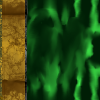
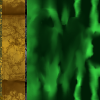
maj fonction changement environnement

Changed region(s): [[0.27, 0.0, 0.42, 1.0]]

diff --git a/public/temple_run.js b/public/temple_run.js
@@ -4,13 +4,19 @@ h=Math.floor(h/10);
 w=Math.floor(w/7);
 const SIZE = Math.min(h,w);
 const bt = document.getElementsByTagName("button")[0];
+const imagesEmpty1 = [createImg("images/empty1.png"),
+createImg("images/emptyD.png"),
+createImg("images/emptyG.png")];
+const imagesEmpty2 = [createImg("images/empty2.png"),
+createImg("images/empty2D.png"),
+createImg("images/empty2G.png")];
 var EMPTY = {c: "#588157",
 n:"empty",
-img:createImg("images/empty1.png"),
-imgD:createImg("images/emptyD.png"),
-imgG:createImg("images/emptyG.png")
+img:imagesEmpty1[0],
+imgD:imagesEmpty1[1],
+imgG:imagesEmpty1[2]
 } ;
-var ROAD = {c:"#895737",
+const ROAD = {c:"#895737",
     n:"road",
     imgD: createImg("images/S3.png"),
     imgM: createImg("images/S2.png"),
@@ -47,10 +53,7 @@ const BRANCHE = {c:"#605952",n:"branche",
 const TROU = {c:"#000000",n:"trou",
     imgD: createImg("images/trou3.png"),
     imgM: createImg("images/trou2.png"),
-    imgG: createImg("images/trou1.png")}
-;
-
-
+    imgG: createImg("images/trou1.png")};
 const ARBRE ={c:"#0008ff",n:"arbre",
 imgD: createImg("images/arbre4.png"),
 imgM: createImg("images/arbre3.png"),
@@ -62,14 +65,14 @@ let img = new Image();
 img.src = "images/p1.png";
 let jeuID;
 
-var canvas = document.getElementById('zoneJeu');
-var run = false;
-var ctx = canvas.getContext('2d');
-var prochainPiege=0;
-var nextRoad = ROAD;
+let canvas = document.getElementById('zoneJeu');
+let run = false;
+let ctx = canvas.getContext('2d');
+let prochainPiege=0;
+let nextRoad = ROAD;
 
-var stopRoute = -1;
-var difficulté = {
+let stopRoute = -1;
+let difficulté = {
     saut: 20,
     tour:5,
     boucle:0
@@ -79,14 +82,14 @@ var difficulté = {
 ctx.strokeStyle = "red";
 ctx.fillStyle = "#00FF00";
 
-var posSkin = {
+let posSkin = {
     x: 3,
     y: 1,
     saut:0,
     glisse:0,
     dir:0
 };
-var score = 0;
+let score = 0;
 
 let WORLD = [
     [EMPTY, EMPTY, ROAD1, ROAD1, ROAD1, EMPTY, EMPTY],
@@ -477,9 +480,19 @@ function changeEnvironnement(){
     posSkin.x = 3;
     stopRoute = -1;
     posSkin.y= 1;
-    if (EMPTY.c == "#588157")
-        EMPTY.c = "#444b66";
-    else EMPTY.c = "#588157";
+    if (Math.floor(Math.random()*100)%4==0){
+        if (EMPTY.c == "#588157"){
+            EMPTY.c = "#444b66";
+            EMPTY.img = imagesEmpty2[0];
+            EMPTY.imgG = imagesEmpty2[2];
+            EMPTY.imgD = imagesEmpty2[1];
+            }
+        else {
+            EMPTY.c = "#588157";
+            EMPTY.img = imagesEmpty1[0];
+            EMPTY.imgG = imagesEmpty1[2];
+            EMPTY.imgD = imagesEmpty1[1];}
+    }
     WORLD = [
     [EMPTY, EMPTY, EMPTY, ROAD1, EMPTY, EMPTY, EMPTY],
     [EMPTY, EMPTY, EMPTY, SKIN, EMPTY, EMPTY, EMPTY],
@@ -639,6 +652,7 @@ function cheminAGetD(r){
     
     return [r, r, r, r, r, r, r];
 }
+
 
 function creerLigne(){
     if (nextRoad==ROAD1) r= ROAD;
